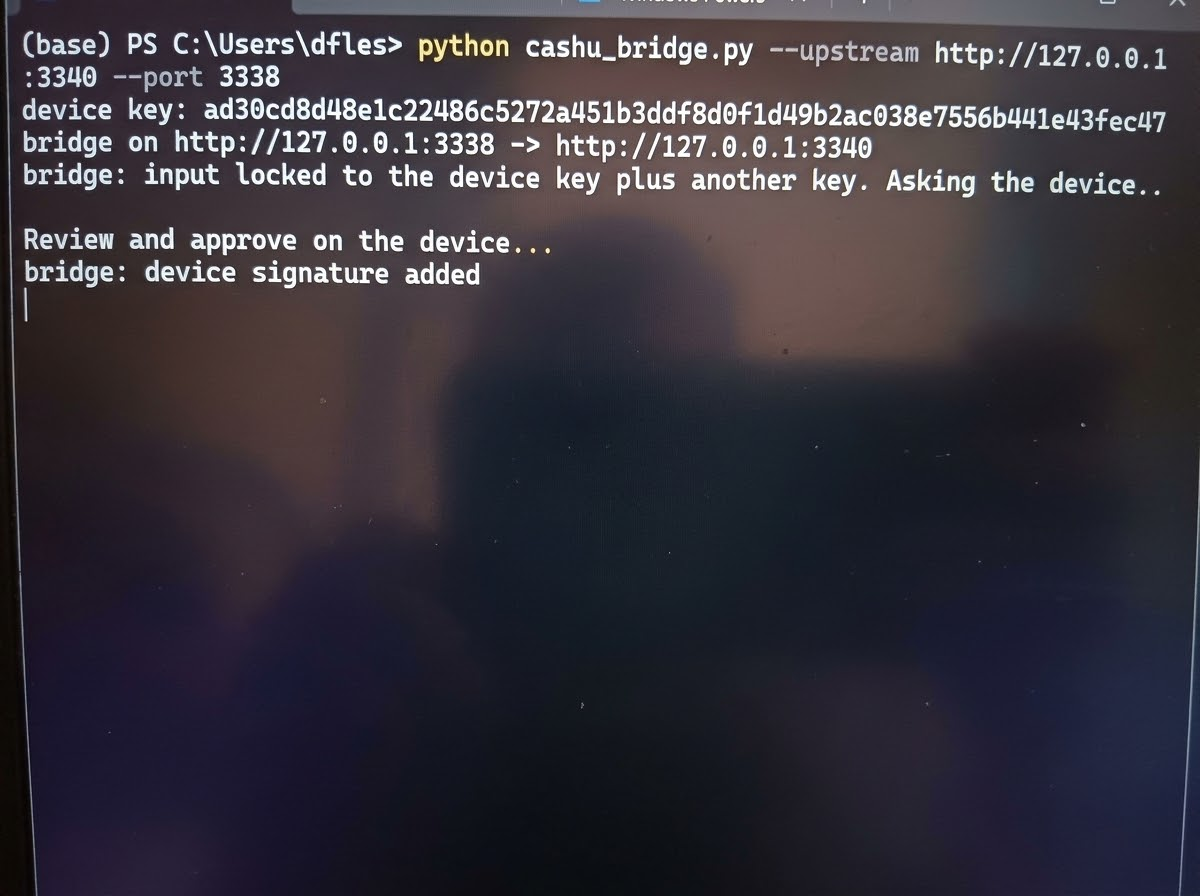
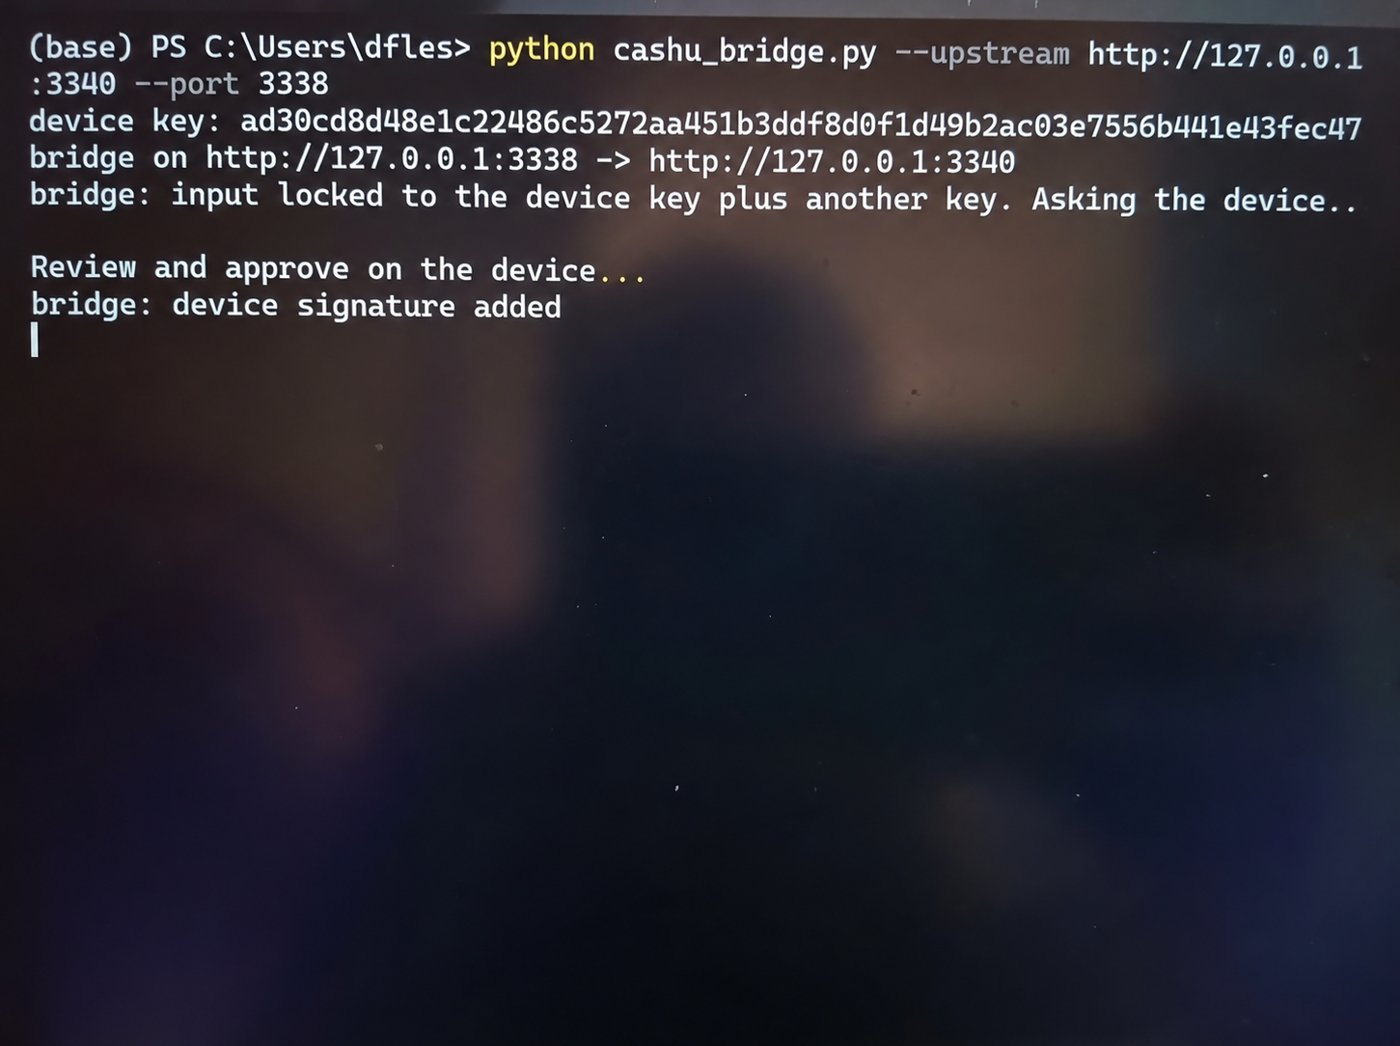
Article: cleaner bridge photos for the cashu.me 2-of-2 spend

Changed region(s): [[0.0, 0.0, 1.0, 0.5625], [0.9867, 0.5312, 1.0, 0.9062], [0.0, 0.875, 0.0308, 0.9688]]

diff --git a/docs/cashu.html b/docs/cashu.html
@@ -100,10 +100,9 @@ footer{margin-top:3.5rem;padding-top:1.25rem;border-top:1px solid var(--rule);co
 <p>These photos show the same kind of token spent with cashu.me and the device together. A small local bridge on the PC asked the device for its signature; cashu.me never talked to the device itself.</p>
 <figure style="margin:1.2em 0"><img src="images/cashu-bridge-01-locked-to-you.jpg" alt="cashu.me showing the locked token" loading="lazy" style="max-width:100%;height:auto;border-radius:6px"><figcaption>cashu.me opens the 2-of-2 token: 8 sat from the local test mint at 127.0.0.1:3338, marked P2PK and “Locked to you”.</figcaption></figure>
 <figure style="margin:1.2em 0"><img src="images/cashu-bridge-02-refused.jpg" alt="cashu.me receive error" loading="lazy" style="max-width:100%;height:auto;border-radius:6px"><figcaption>Without the bridge, Receive fails with the mint’s message: not enough pubkeys (2) or signatures (1) present for n_sigs (2).</figcaption></figure>
-<figure style="margin:1.2em 0"><img src="images/cashu-bridge-03-terminal.jpg" alt="Bridge terminal output" loading="lazy" style="max-width:100%;height:auto;border-radius:6px"><figcaption>The bridge on the PC: it sees an input locked to the device key plus another key, asks the device, and reports that the device signature was added.</figcaption></figure>
+<figure style="margin:1.2em 0"><img src="images/cashu-bridge-03-terminal.jpg" alt="Bridge terminal output" loading="lazy" style="max-width:100%;height:auto;border-radius:6px"><figcaption>The bridge on the PC: it prints the device key, sees an input locked to the device key plus another key, asks the device, and reports that the device signature was added.</figcaption></figure>
 <figure style="margin:1.2em 0"><img src="images/cashu-bridge-04-secret-3of4.jpg" alt="Device page 3 of 4 for the cashu.me token" loading="lazy" style="max-width:100%;height:auto;border-radius:6px"><figcaption>Device, page 3 of 4 for this token: the pubkeys tag holds cashu.me’s public key.</figcaption></figure>
-<figure style="margin:1.2em 0"><img src="images/cashu-bridge-05-received.jpg" alt="cashu.me after receiving" loading="lazy" style="max-width:100%;height:auto;border-radius:6px"><figcaption>After the device button press, cashu.me receives 7 sat from the local test mint (8 sat minus a 1 sat fee).</figcaption></figure>
-<figure style="margin:1.2em 0"><img src="images/cashu-bridge-06-balance.jpg" alt="cashu.me balance by mint" loading="lazy" style="max-width:100%;height:auto;border-radius:6px"><figcaption>The wallet’s balances by mint. The 7 sat on the local test mint are fake funds; the other balance is on Minibits.</figcaption></figure>
+<figure style="margin:1.2em 0"><img src="images/cashu-bridge-05-mints.jpg" alt="cashu.me mints and received notice" loading="lazy" style="max-width:100%;height:auto;border-radius:6px"><figcaption>After the device button press, cashu.me shows “Received 7 (fee: 1)”. The Mints tab lists the 7 sat on the local test mint, which are fake funds, next to a balance on Minibits.</figcaption></figure>
 <h2>Not tested</h2>
 <ul>
 <li>Spending beyond one proof on a real mint. Only a single 8 sat proof on Minibits was spent; other mints, larger tokens and several proofs on a real mint were not tested.</li>
